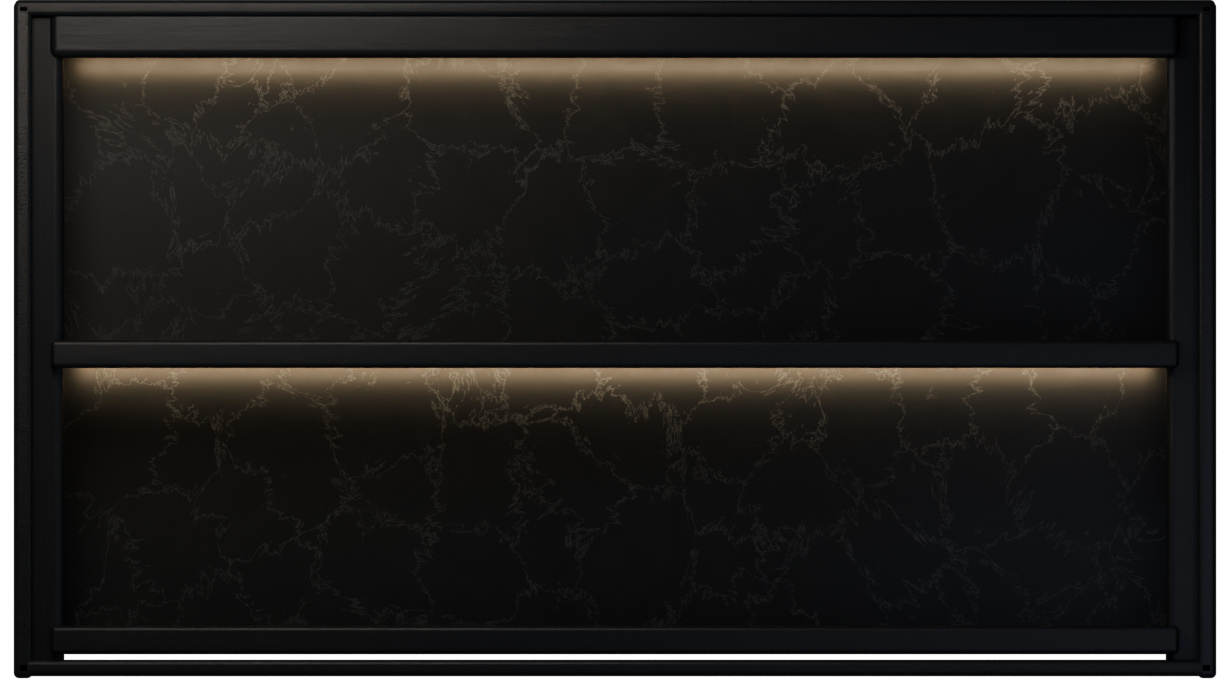
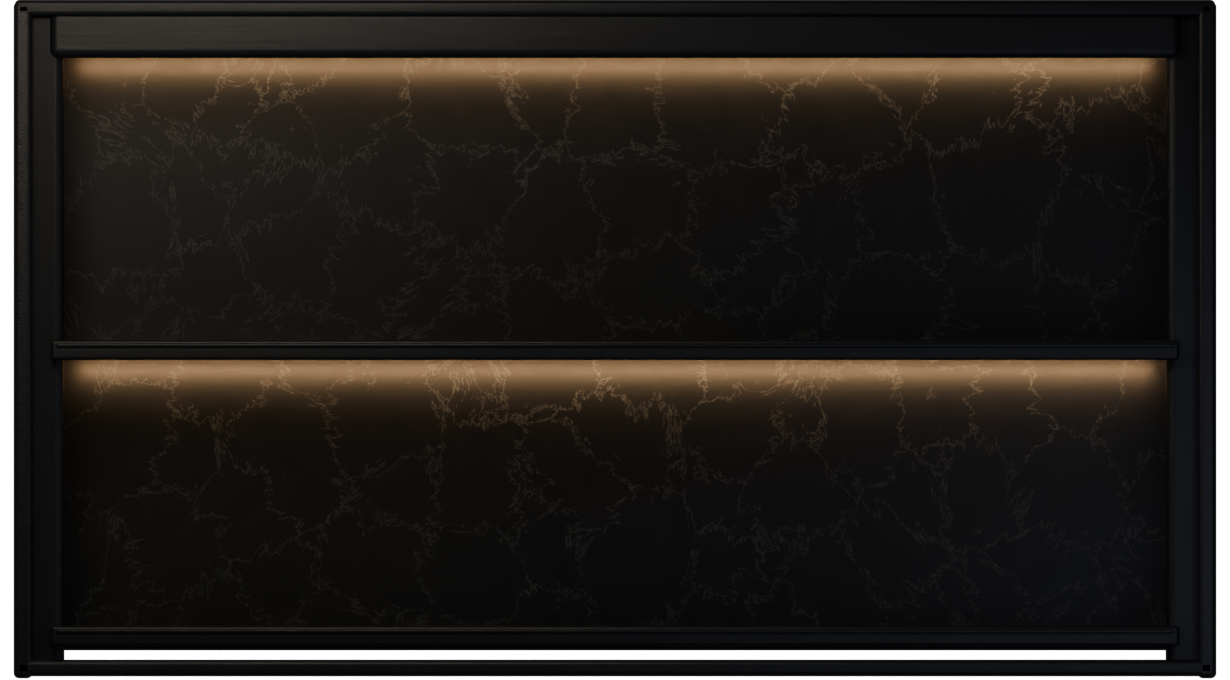
feat(mobile): polish MyShelf and add whole-collection statistics (#579)

Changed region(s): [[0.0618, 0.9574, 0.9577, 0.9882], [0.0618, 0.525, 0.9577, 0.5559]]

diff --git a/apps/mobile/app/(app)/(tabs)/cellar.tsx b/apps/mobile/app/(app)/(tabs)/cellar.tsx
@@ -3,7 +3,7 @@ import { MaterialCommunityIcons } from "@expo/vector-icons";
 import { useFocusEffect, useRouter } from "expo-router";
 import * as SecureStore from "expo-secure-store";
 import { useCallback, useEffect, useMemo, useRef, useState } from "react";
-import { Alert, FlatList, KeyboardAvoidingView, Modal, Platform, Pressable, RefreshControl, ScrollView, StyleSheet, Switch, Text, TextInput, useWindowDimensions, View } from "react-native";
+import { AccessibilityInfo, findNodeHandle, Alert, FlatList, KeyboardAvoidingView, Modal, Platform, Pressable, RefreshControl, ScrollView, StyleSheet, Switch, Text, TextInput, useWindowDimensions, View } from "react-native";
 import { SafeAreaView } from "react-native-safe-area-context";
 import { MobileApiError } from "../../../src/api/client";
 import type { MemberCollectionBottle, MemberPreferences } from "../../../src/api/types";
@@ -20,7 +20,8 @@ import { nextShelfPageSize } from "../../../src/cellar/my-shelf-display";
 import { CellarBottleArtwork } from "../../../src/components/CellarBottleArtwork";
 import { CellarGlencairnSilhouette } from "../../../src/components/CellarGlencairnSilhouette";
 import { ShelfCabinet } from "../../../src/components/ShelfCabinet";
-import { shelfGridLayout, type ShelfStyle } from "../../../src/cellar/shelf-cabinet";
+import { CollectionStatisticsSheet } from "../../../src/components/CollectionStatisticsSheet";
+import { rankedShelfBottles, shelfGridLayout, type ShelfStyle } from "../../../src/cellar/shelf-cabinet";
 import { EmptyState, ErrorState, LoadingState, memberScreenStyles } from "../../../src/components/MemberScreen";
 import { ScoreSlider } from "../../../src/components/ScoreSlider";
 import { useMobileApi } from "../../../src/hooks/useMobileApi";
@@ -31,6 +32,7 @@ import {
   collectionDisplayKind,
   collectionInventoryLabel,
   collectionSummary,
+  collectionStatistics,
   DEFAULT_COLLECTION_FILTERS,
   DEFAULT_COLLECTION_SORT,
   filterAndSortCollection,
@@ -94,13 +96,21 @@ async function writeContributionReceipts(storageKey: string, receipts: BottleCon
 }
 
 export default function CellarScreen() {
+  const { userId } = useAuth();
+  // Keep API identity invalidation above the keyed local-state boundary.
   const api = useMobileApi();
+  return <AccountCellarScreen key={userId || 'signed-out'} api={api} />;
+}
+
+function AccountCellarScreen({ api }: { api: ReturnType<typeof useMobileApi> }) {
   const { userId } = useAuth();
   const router = useRouter();
   const receiptStorageKey = bottleContributionReceiptsStorageKey(userId);
-  const { width } = useWindowDimensions();
+  const { width, fontScale } = useWindowDimensions();
   const [preferences, setPreferences] = useState<MemberPreferences | null>(null);
   const activeUser = useRef(userId);
+  const mounted = useRef(true);
+  useEffect(() => { mounted.current = true; return () => { mounted.current = false; }; }, []);
   const styleRevision = useRef(0);
   activeUser.current = userId;
   const [styleSaving, setStyleSaving] = useState(false);
@@ -116,6 +126,14 @@ export default function CellarScreen() {
   const [mutating, setMutating] = useState(false);
   const [savingWatchKey, setSavingWatchKey] = useState("");
   const [dnaExpanded, setDnaExpanded] = useState(false);
+  const [statisticsOpen, setStatisticsOpen] = useState(false);
+  const statisticsTrigger = useRef<View>(null);
+  const restoreStatisticsFocus = () => {
+    if (Platform.OS === 'web') { (statisticsTrigger.current as unknown as {focus?: () => void})?.focus?.(); return; }
+    const node = findNodeHandle(statisticsTrigger.current);
+    if (node != null) AccessibilityInfo.setAccessibilityFocus(node);
+  };
+  const closeStatistics = () => { setStatisticsOpen(false); };
   const [visibleCount, setVisibleCount] = useState(12);
   const reportedPendingBottleIds = useRef(new Set<string>());
 
@@ -195,8 +213,9 @@ export default function CellarScreen() {
     setError("");
     try {
       const receiptRead = await readContributionReceipts(receiptStorageKey);
+      if (!mounted.current) return;
       const nextPreferences = await api.getMemberPreferences({ fresh });
-      if (activeUser.current !== userId || readStyleRevision !== styleRevision.current) return;
+      if (!mounted.current || activeUser.current !== userId || readStyleRevision !== styleRevision.current) return;
       acceptServerPreferences(nextPreferences);
       retryPendingContributions(nextPreferences, receiptRead.receipts);
     } catch (caught) {
@@ -214,6 +233,8 @@ export default function CellarScreen() {
   const collectionAccess = preferences?.collectionAccess;
   const canAddToCollection = collectionAccess?.canAdd === true;
   const summary = useMemo(() => collectionSummary(sourceBottles), [sourceBottles]);
+  const statistics = useMemo(() => collectionStatistics(sourceBottles), [sourceBottles]);
+  const ranked = useMemo(() => rankedShelfBottles(sourceBottles), [sourceBottles]);
   const bottles = useMemo(() => filterAndSortCollection(sourceBottles, query, sort, filters), [filters, query, sort, sourceBottles]);
   const visibleBottles = bottles.slice(0, visibleCount);
   const { columns: numColumns, tileWidth } = shelfGridLayout(width, viewMode);
@@ -401,7 +422,11 @@ export default function CellarScreen() {
         </View>
         {preferences ? <>
           <ShelfCabinet bottles={sourceBottles} shelfStyle={preferences.collectionPreferences.shelfStyle || "amber"} busy={styleSaving || mutating} onStyle={saveShelfStyle} onBottle={setSelected} />
-          <View accessibilityLabel="Collection Statistics" accessibilityRole="summary" style={styles.statistics}><Text style={styles.summaryDetail}>{summary.ownedWhiskeyCount} owned · {summary.tastedOnlyCount} tasted only{summary.averageRating == null ? "" : ` · ${(summary.averageRating / 10).toFixed(1)} average rating`}</Text></View>
+          <Pressable ref={statisticsTrigger} accessibilityLabel="Collection Statistics" accessibilityRole="button" accessibilityHint="View whole-collection statistics and readable Top Rated list" onPress={() => { if (!selected && !refineMode && !styleSaving) setStatisticsOpen(true); }} style={styles.statistics}>
+            <MaterialCommunityIcons accessible={false} name="chart-bar" size={22} color={colors.accent} />
+            <View style={{flex: 1}}><Text style={styles.statisticsTitle}>Collection Statistics</Text><Text style={styles.summaryDetail}>{statistics.ownedBottleCount} bottles · {statistics.ownedWhiskeyCount} owned entries{statistics.averageRating == null ? "" : ` · ${(statistics.averageRating / 10).toFixed(1)} avg`}</Text></View>
+            <MaterialCommunityIcons accessible={false} name="chevron-right" size={20} color={colors.muted} />
+          </Pressable>
         </> : null}
         {loading && !preferences ? <LoadingState label="Opening My Shelf…" /> : null}
         {error ? <ErrorState message={error} onRetry={() => void load(true)} /> : null}
@@ -424,9 +449,9 @@ export default function CellarScreen() {
             </View>
           </View>
           <View style={styles.controlRow}>
-            <TextInput accessibilityLabel="Search My Shelf" autoCapitalize="none" clearButtonMode="while-editing" onChangeText={setQuery} placeholder="Search" placeholderTextColor={colors.muted} style={styles.search} value={query} />
+            <View style={styles.searchField}><MaterialCommunityIcons accessible={false} name="magnify" size={18} color={colors.muted} /><TextInput accessibilityLabel="Search My Shelf" autoCapitalize="none" clearButtonMode="while-editing" onChangeText={setQuery} placeholder="Search" placeholderTextColor={colors.muted} style={styles.search} value={query} /></View>
 
-            <Pressable accessibilityLabel={moreFilterCount ? `More filters, ${moreFilterCount} active` : "More filters"} accessibilityRole="button" onPress={() => setRefineMode("filters")} style={[styles.moreFiltersButton, moreFilterCount > 0 && styles.moreFiltersButtonActive]}><Text style={styles.moreFiltersText}>Filters{moreFilterCount ? ` (${moreFilterCount})` : ""}</Text></Pressable>
+            <Pressable accessibilityLabel={moreFilterCount ? `More filters, ${moreFilterCount} active` : "More filters"} accessibilityRole="button" onPress={() => setRefineMode("filters")} style={[styles.moreFiltersButton, moreFilterCount > 0 && styles.moreFiltersButtonActive]}><MaterialCommunityIcons accessible={false} name="tune-variant" size={18} color={moreFilterCount ? colors.accent : colors.muted} />{width >= 350 || fontScale <= 1.15 ? <Text style={styles.moreFiltersText}>Filters{moreFilterCount ? ` (${moreFilterCount})` : ""}</Text> : null}</Pressable>
 
             <View accessibilityLabel="My Shelf view" accessibilityRole="radiogroup" style={styles.viewToggle}><ViewModeButton active={viewMode === "grid"} label="Grid" onPress={() => setViewMode("grid")} /><ViewModeButton active={viewMode === "list"} label="List" onPress={() => setViewMode("list")} /></View>
           </View>
@@ -463,6 +488,7 @@ export default function CellarScreen() {
       ListEmptyComponent={preferences && !loading ? <EmptyState title={sourceBottles.length ? "No whiskeys match" : "My Shelf is ready"} detail={sourceBottles.length ? "Clear the search or refine choices." : "Choose Add to save a bottle or a whiskey you tasted."} /> : null}
       style={memberScreenStyles.screen}
     />
+    <CollectionStatisticsSheet visible={statisticsOpen} statistics={statistics} ranked={ranked} onClose={closeStatistics} onDismiss={restoreStatisticsFocus} />
     <RefineSheet filters={filters} mode={refineMode} onChange={setFilters} onClose={() => setRefineMode(null)} onSort={setSort} sort={sort} />
     <BottleEditor bottle={selected} busy={mutating} onClose={() => setSelected(null)} onDelete={requestDelete} onInventoryAction={applyInventoryAction} onSave={saveBottle} />
   </SafeAreaView>;
@@ -702,10 +728,10 @@ function Stepper({ label, onChange, value }: { label: string; onChange: (value: 
 
 const styles = StyleSheet.create({
   pageTitle: { color: colors.text, fontSize: 32, fontWeight: "700", fontFamily: "Fraunces_700Bold" },
-  statistics: { gap: 2, paddingVertical: 5, paddingHorizontal: 10, borderWidth: StyleSheet.hairlineWidth, borderColor: "#29251f", borderRadius: 6, backgroundColor: "#12110e" },
+  statistics: { minHeight: 44, flexDirection: "row", alignItems: "center", gap: 8, paddingVertical: 4, paddingHorizontal: 10, borderWidth: StyleSheet.hairlineWidth, borderColor: "#29251f", borderRadius: 8, backgroundColor: "#12110e" },
   statisticsTitle: { color: colors.text, fontSize: 12, fontWeight: "500" },
-  collectionTabs: { flex: 1, flexDirection: "row", gap: 0, borderWidth: StyleSheet.hairlineWidth, borderColor: "#302b24", borderRadius: 6, overflow: "hidden" },
-  tileArt: { height: 76, width: 72, alignItems: "center", justifyContent: "center", transform: [{ scale: 0.65 }] },
+  collectionTabs: { flex: 1, flexDirection: "row", gap: 2, padding: 3, borderWidth: StyleSheet.hairlineWidth, borderColor: "#302b24", borderRadius: 9 },
+  tileArt: { height: 84, width: 80, alignItems: "center", justifyContent: "center", transform: [{ scale: 0.73 }] },
   header: { gap: 3, marginBottom: 0 },
   topRow: { flexDirection: "row", alignItems: "center", justifyContent: "space-between", gap: 14, paddingTop: 0 },
   topCopy: { flex: 1, gap: 4 },
@@ -739,19 +765,20 @@ const styles = StyleSheet.create({
   showMoreText: { color: colors.accent, fontSize: 13, fontWeight: "900" },
   huntNext: { gap: 8, borderColor: colors.border, borderWidth: StyleSheet.hairlineWidth, borderRadius: 14, backgroundColor: colors.surface, padding: 12 }, huntNextHeader: { flexDirection: "row", alignItems: "center", justifyContent: "space-between", gap: 10 }, huntNextTitle: { color: colors.text, fontSize: 17, fontWeight: "900" }, huntNextCount: { color: colors.muted, fontSize: 10, textTransform: "uppercase", letterSpacing: 0.7 }, huntNextRow: { gap: 9, borderTopColor: colors.border, borderTopWidth: StyleSheet.hairlineWidth, paddingTop: 10 }, huntNextCopy: { gap: 3 }, huntNextName: { color: colors.text, fontSize: 13, fontWeight: "800" }, huntNextReason: { color: colors.muted, fontSize: 11, lineHeight: 16 }, huntNextButton: { minHeight: 44, alignSelf: "flex-start", justifyContent: "center", borderColor: colors.accent, borderWidth: 1, borderRadius: 999, paddingHorizontal: 12 }, huntNextButtonText: { color: colors.accent, fontSize: 11, fontWeight: "900" },
   controlRow: { flexDirection: "row", gap: 8 },
-  search: { flex: 1, minWidth: 0, minHeight: 44, borderColor: "#343029", borderWidth: StyleSheet.hairlineWidth, borderRadius: 7, backgroundColor: "#151410", color: colors.text, paddingHorizontal: 10, fontSize: 12 },
+  searchField: { flex: 1, minWidth: 0, minHeight: 44, flexDirection: "row", alignItems: "center", paddingLeft: 8, borderColor: "#343029", borderWidth: StyleSheet.hairlineWidth, borderRadius: 7, backgroundColor: "#151410" },
+  search: { flex: 1, minWidth: 0, minHeight: 44, color: colors.text, paddingHorizontal: 6, fontSize: 12 },
   sortButton: { minHeight: 44, maxWidth: "44%", justifyContent: "center", borderColor: "#594839", borderWidth: 1, borderRadius: 11, backgroundColor: colors.surface, paddingHorizontal: 11 },
   sortText: { color: colors.text, fontSize: 11, fontWeight: "800" },
   filterBar: { minHeight: 44, flexDirection: "row", alignItems: "center", gap: 8 },
   quickFilterScroller: { flex: 1 },
   quickFilters: { alignItems: "center", gap: 7, paddingRight: 2 },
-  filterChip: { flex: 1, minWidth: 0, minHeight: 44, justifyContent: "center", alignItems: "center", backgroundColor: colors.surface, paddingHorizontal: 2, paddingVertical: 4 },
-  filterChipActive: { borderColor: colors.accent, backgroundColor: colors.accent, borderBottomWidth: 2 },
+  filterChip: { flex: 1, minWidth: 0, minHeight: 44, justifyContent: "center", alignItems: "center", backgroundColor: colors.surface, borderRadius: 6, paddingHorizontal: 2, paddingVertical: 4 },
+  filterChipActive: { backgroundColor: colors.accent },
   filterChipInline: { flexDirection: "row", gap: 3 },
   filterChipText: { color: colors.text, fontSize: 11, fontWeight: "500", textAlign: "center", flexShrink: 1 },
   tabCount: { color: colors.muted, fontSize: 10, textAlign: "center" },
   filterChipTextActive: { color: colors.background, fontWeight: "700" },
-  moreFiltersButton: { minHeight: 44, justifyContent: "center", borderColor: "#343029", borderWidth: StyleSheet.hairlineWidth, borderRadius: 7, backgroundColor: "#151410", paddingHorizontal: 8 },
+  moreFiltersButton: { minWidth: 44, minHeight: 44, flexDirection: "row", alignItems: "center", gap: 4, justifyContent: "center", borderColor: "#343029", borderWidth: StyleSheet.hairlineWidth, borderRadius: 7, backgroundColor: "#151410", paddingHorizontal: 6 },
   moreFiltersButtonActive: { borderColor: colors.accent, backgroundColor: "rgba(214,154,74,0.18)" },
   moreFiltersText: { color: colors.text, fontSize: 10, fontWeight: "800" },
   moreFiltersTextActive: { color: colors.accent },
@@ -766,9 +793,9 @@ const styles = StyleSheet.create({
   gridContent: { gap: 6 },
   gridRow: { gap: 8 },
   gap: { height: 8 },
-  tile: { flexGrow: 0, flexShrink: 0, minWidth: 0, alignItems: "center", gap: 2, paddingHorizontal: 4, paddingVertical: 5, borderColor: "#25221c", borderWidth: StyleSheet.hairlineWidth, borderRadius: 6, backgroundColor: "#13120f" },
+  tile: { flexGrow: 0, flexShrink: 0, minWidth: 0, alignItems: "center", gap: 1, paddingHorizontal: 4, paddingVertical: 2, borderColor: "#25221c", borderWidth: StyleSheet.hairlineWidth, borderRadius: 6, backgroundColor: "#13120f" },
   tileTitleZone: { alignSelf: "stretch", minHeight: 28, justifyContent: "center" },
-  tileName: { alignSelf: "stretch", color: colors.text, fontSize: 11, lineHeight: 13, fontFamily: Platform.select({ ios: "Georgia", android: "serif", default: "Georgia" }), fontWeight: "600", textAlign: "center" },
+  tileName: { alignSelf: "stretch", color: colors.text, fontSize: 10.5, lineHeight: 13, fontFamily: Platform.select({ ios: "Georgia", android: "serif", default: "Georgia" }), fontWeight: "400", textAlign: "center" },
   tileRating: { color: colors.accent, fontSize: 12, lineHeight: 15, fontWeight: "500" },
   inventory: { alignSelf: "stretch", textAlign: "center", color: colors.muted, fontSize: 10, lineHeight: 12, textTransform: "capitalize" },
   listRow: { minHeight: 92, flexDirection: "row", alignItems: "center", gap: 12, borderColor: colors.border, borderWidth: StyleSheet.hairlineWidth, borderRadius: 14, backgroundColor: colors.surface, paddingHorizontal: 12, paddingVertical: 10 },

diff --git a/apps/mobile/src/components/CollectionStatisticsSheet.tsx b/apps/mobile/src/components/CollectionStatisticsSheet.tsx
@@ -1,0 +1,48 @@
+import { useRef } from 'react';
+import { AccessibilityInfo, findNodeHandle, Modal, Platform, Pressable, ScrollView, StyleSheet, Text, View } from 'react-native';
+import { SafeAreaView } from 'react-native-safe-area-context';
+import type { MemberCollectionBottle } from '../api/types';
+import { collectionInventoryLabel, formatCollectionRating, type collectionStatistics } from '../interactions/member-interactions';
+import { colors } from '../theme';
+
+type Statistics = ReturnType<typeof collectionStatistics>;
+export function CollectionStatisticsSheet({ visible, statistics, ranked, onClose, onDismiss }: {
+  visible: boolean; statistics: Statistics; ranked: readonly MemberCollectionBottle[]; onClose: () => void; onDismiss: () => void;
+}) {
+  const heading = useRef<Text>(null);
+  const focusHeading = () => {
+    if (Platform.OS === 'web') { (heading.current as unknown as {focus?: () => void})?.focus?.(); return; }
+    const node = findNodeHandle(heading.current);
+    if (node != null) AccessibilityInfo.setAccessibilityFocus(node);
+  };
+  const s = statistics;
+  return <Modal visible={visible} animationType="none" presentationStyle="pageSheet" onRequestClose={onClose} onDismiss={onDismiss} onShow={focusHeading}>
+    <SafeAreaView style={styles.frame} accessibilityViewIsModal onAccessibilityEscape={onClose}>
+      <View style={styles.header}><Text ref={heading} accessible accessibilityRole="header" style={styles.title}>Collection Statistics</Text><Pressable accessibilityRole="button" accessibilityLabel="Close collection statistics" onPress={onClose} style={styles.close}><Text style={styles.closeText}>Close</Text></Pressable></View>
+      <ScrollView contentContainerStyle={styles.content}>
+        <Text style={styles.copy}>Your whole collection, regardless of search or filters.</Text>
+        <Stat label="Bottles on hand" value={String(s.ownedBottleCount)} detail={`${s.ownedWhiskeyCount} unique owned entries`} />
+        <Stat label="Sealed bottles" value={String(s.sealedBottleCount)} />
+        <Stat label="Open bottles" value={String(s.openBottleCount)} />
+        <Stat label="Tasted only" value={String(s.tastedOnlyCount)} detail="Saved entries with no bottles on hand" />
+        <Stat label="Your average rating" value={s.averageRating == null ? 'Not rated yet' : `${(s.averageRating / 10).toFixed(1)} / 10`} detail={`${s.ratedCount} rated entries across owned and tasted only. Each entry counts once, including a rating of zero; unrated entries do not count.`} />
+        <Stat label="Most-represented distillery" value="Unavailable" detail="No verified distillery data is attached to your collection. Brands and bottlers are not counted as distilleries." />
+        <Stat label="Highest personally rated owned" value={s.highestRatedOwned ? `${formatCollectionRating(s.highestRatedOwned)} / 10` : 'Not rated yet'} detail={s.highestRatedOwned ? `${s.highestRatedOwned.bottleName}. Ties retain collection order; up to 20 entries are listed in Top Rated below.` : 'Rate a bottle you own to see it here.'} />
+        <Stat label="Collection worth" value="Coming later" />
+        <Text accessibilityRole="header" style={styles.sectionTitle}>Top Rated</Text>
+        <Text style={styles.copy}>Your top 20 personally rated owned entries. Full bottle names and inventory, in shelf order.</Text>
+        {ranked.length ? ranked.map((bottle, index) => <View key={bottle.bottleId || `${bottle.canonicalKey}:${bottle.bottleName}`} accessible style={styles.row}>
+          <Text style={styles.label}>{index + 1}. {bottle.bottleName}</Text>
+          <Text style={styles.value}>{formatCollectionRating(bottle)} / 10</Text>
+          <Text style={styles.copy}>{collectionInventoryLabel(bottle)}</Text>
+        </View>) : <Text style={styles.copy}>No personally rated owned bottles yet.</Text>}
+      </ScrollView>
+    </SafeAreaView>
+  </Modal>;
+}
+function Stat({label,value,detail}:{label:string;value:string;detail?:string}) {
+  return <View accessible style={styles.row}><Text style={styles.label}>{label}</Text><Text style={styles.value}>{value}</Text>{detail ? <Text style={styles.copy}>{detail}</Text> : null}</View>;
+}
+const styles=StyleSheet.create({
+  frame:{flex:1,backgroundColor:colors.background},header:{paddingHorizontal:20,paddingVertical:8,flexDirection:'row',alignItems:'center',gap:12},title:{flex:1,color:colors.text,fontSize:21,fontWeight:'600'},close:{minHeight:44,minWidth:44,justifyContent:'center'},closeText:{color:colors.accent,fontSize:16},content:{paddingHorizontal:20,paddingBottom:32,gap:16},row:{gap:5,paddingVertical:8,borderBottomWidth:StyleSheet.hairlineWidth,borderBottomColor:colors.border},label:{color:colors.text,fontSize:16,fontWeight:'500'},value:{color:colors.accent,fontSize:22},copy:{color:colors.muted,fontSize:14,lineHeight:21},sectionTitle:{color:colors.text,fontSize:22,fontWeight:'600',paddingTop:12},
+});

diff --git a/apps/mobile/src/cellar/collection-statistics.test.ts b/apps/mobile/src/cellar/collection-statistics.test.ts
@@ -1,0 +1,34 @@
+import assert from 'node:assert/strict';
+import test from 'node:test';
+import * as interactions from '../interactions/member-interactions';
+import type { MemberCollectionBottle } from '../api/types';
+const bottle=(id:string, patch:Partial<MemberCollectionBottle>={}):MemberCollectionBottle=>({bottleId:id,bottleName:id,canonicalKey:id,rating:0,isRated:false,sealedQuantity:0,openedQuantity:0,finishedCount:0,tastedOnly:true,addedAt:'2026-01-01',updatedAt:'2026-01-01',...patch});
+const stats=(items:MemberCollectionBottle[])=>{
+ assert.equal(typeof (interactions as any).collectionStatistics,'function','whole-collection statistics derivation must exist');
+ return (interactions as any).collectionStatistics(items);
+};
+test('whole collection statistics distinguish physical bottles, entries and personal rating population',()=>{
+ const s=stats([bottle('a',{sealedQuantity:2,openedQuantity:1,isRated:true,rating:0}),bottle('b',{sealedQuantity:1,isRated:true,rating:100}),bottle('c',{isRated:true,rating:50}),bottle('unrated',{rating:100}),bottle('invalid',{isRated:true,rating:NaN})]);
+ assert.equal(s.ownedBottleCount,4);assert.equal(s.ownedWhiskeyCount,2);assert.equal(s.sealedBottleCount,3);assert.equal(s.openBottleCount,1);assert.equal(s.tastedOnlyCount,3);
+ assert.equal(s.ratedCount,3);assert.equal(s.averageRating,50);assert.equal(s.highestRatedOwned.bottleId,'b');
+ assert.equal(s.distillery.status,'unavailable');assert.equal(s.distillery.knownBottleCount,0);assert.deepEqual(s.distillery.leaders,[]);
+});
+test('brand, bottler and unverified tied distillery strings cannot become facility statistics',()=>{
+ const items=[bottle('a',{sealedQuantity:2}),bottle('b',{openedQuantity:2})].map(b=>({...b,producer:'Brand',distillery:'Unverified tied name',brand:'Bottler'}));
+ const s=stats(items);assert.equal(s.distillery.status,'unavailable');assert.equal(s.distillery.knownBottleCount,0);assert.deepEqual(s.distillery.leaders,[]);
+});
+test('empty and unrated collections have no fake average or highest bottle',()=>{
+ for(const items of [[],[bottle('a')]]){const s=stats(items);assert.equal(s.averageRating,null);assert.equal(s.ratedCount,0);assert.equal(s.highestRatedOwned,null);}
+});
+test('missing and invalid ratings excluded, valid zero retained, stable owned ties',()=>{
+ const s=stats([bottle('first',{sealedQuantity:1,rating:0,isRated:true}),bottle('second',{openedQuantity:3,rating:0,isRated:true}),bottle('missing',{isRated:true,rating:undefined as any}),bottle('negative',{isRated:true,rating:-1}),bottle('over',{isRated:true,rating:101})]);
+ assert.equal(s.ratedCount,2);assert.equal(s.averageRating,0);assert.equal(s.highestRatedOwned.bottleId,'first');
+});
+test('stats do not cache account data, respond to edit/removal and ignore view filters',()=>{
+ const a=[bottle('a',{sealedQuantity:3,isRated:true,rating:90}),bottle('b',{openedQuantity:1,isRated:true,rating:10})];
+ const snapshot=structuredClone(a);const before=stats(a);
+ interactions.filterAndSortCollection(a,'a','rating',{...interactions.DEFAULT_COLLECTION_FILTERS,status:'owned'});
+ assert.deepEqual(stats(a),before);assert.deepEqual(a,snapshot);
+ assert.equal(stats([{...a[0],sealedQuantity:1},a[1]]).ownedBottleCount,2);
+ assert.equal(stats(a.slice(1)).averageRating,10);assert.equal(stats([]).ratedCount,0);assert.equal(stats([bottle('other')]).ownedBottleCount,0);
+});

diff --git a/apps/mobile/src/components/ShelfCabinet.tsx b/apps/mobile/src/components/ShelfCabinet.tsx
@@ -27,7 +27,7 @@ export function ShelfCabinet({ bottles, shelfStyle, busy, onStyle, onBottle }: {
   const plate = placement[assetKey];
   const cabinetHeight = interiorWidth * plate.height / plate.width;
   // Reserve the measured inline heading at larger text sizes; never stretch the cabinet grain.
-  const photoScale = Math.max(0, Math.min(1, ((interiorWidth * .89 / slots) - 2) / 80, (cabinetHeight * plate.baselineY[0] - headingHeight - 8) / 116));
+  const photoScale = Math.max(0, Math.min(1, ((interiorWidth * .89 / slots) - 2) / (slots <= 6 ? 70 : 80), (cabinetHeight * plate.baselineY[0] - headingHeight - 8) / 116));
   return <View>
     <View testID="shelf-cabinet" onLayout={e => {
       const width = e.nativeEvent.layout.width;
@@ -35,9 +35,9 @@ export function ShelfCabinet({ bottles, shelfStyle, busy, onStyle, onBottle }: {
     }} style={{ height: cabinetHeight, position: 'relative', overflow: 'hidden' }}>
       {/* Native Image injects asset dimensions; bind the same frame used by bottle placement. */}
       <Image accessibilityElementsHidden importantForAccessibility="no-hide-descendants" source={cabinetAssets[shelfStyle][assetKey]} resizeMode="contain" style={{ position: 'absolute', left: 0, top: 0, width: interiorWidth, height: cabinetHeight }} />
-      <View onLayout={e => setHeadingHeight(e.nativeEvent.layout.height)} style={styles.heading}>
+      <View onLayout={e => { const height = e.nativeEvent.layout.height; if (Number.isFinite(height) && height > 0) setHeadingHeight(height); }} style={styles.heading}>
         <Text style={styles.caption}>TOP RATED · {ranked.length}/20</Text>
-        <Pressable accessibilityRole="button" accessibilityLabel="Edit Shelf" onPress={() => setPicker(true)} style={styles.edit}><Text style={styles.editText}>Edit Shelf</Text></Pressable>
+        <Pressable accessibilityRole="button" accessibilityLabel="Shelf Style" onPress={() => setPicker(true)} style={styles.edit}><Text style={styles.editText}>Shelf Style</Text></Pressable>
       </View>
       {(rows.length ? rows : [[]]).map((row, i) => <View testID="cabinet-row" key={i} style={{ position: 'absolute', left: '5.5%', right: '5.5%', top: cabinetHeight * plate.baselineY[i] - 116 * photoScale, height: 116 * photoScale, flexDirection: 'row', justifyContent: 'center' }}>
         {row.map(bottle => <Pressable key={bottle.bottleId || `${bottle.canonicalKey}:${bottle.bottleName}`} testID="cabinet-bottle" accessibilityRole="button" accessibilityLabel={`${bottle.bottleName}. Personally rated ${(bottle.rating / 10).toFixed(1)}. Open details.`} onPress={() => onBottle(bottle)} style={{ width: interiorWidth * .89 / slots, height: 116 * photoScale, alignItems: 'center' }}>

diff --git a/apps/mobile/src/cellar/shelf-page-contract.test.ts b/apps/mobile/src/cellar/shelf-page-contract.test.ts
@@ -2,6 +2,9 @@ import assert from 'node:assert/strict';
 import './shelf-asset-layout.test';
 import './shelf-fidelity.test';
 import './photo-presentation.test';
+import './collection-statistics.test';
+import './collection-statistics-ui.test';
+import './shelf-stats-polish.test';
 import test from 'node:test';
 import { readFileSync } from 'node:fs';
 const page=readFileSync(new URL('../../app/(app)/(tabs)/cellar.tsx',import.meta.url),'utf8');
@@ -17,7 +20,7 @@ test('an older refresh cannot undo an acknowledged shelf finish', async () => {
  const stale = structuredClone(preferences);
  const api = {getMemberPreferences: () => {startedRead(); return read;}, updateMemberPreferences: async () => ({collectionPreferences:{shelfStyle:'black'}})};
  const noop = () => {};
- const deps = {api, activeUser:{current:'fixture'}, userId:'fixture', styleRevision:{current:0}, styleSaving:false, mutating:false, receiptStorageKey:'fixture', readContributionReceipts:async()=>({receipts:new Map()}), setLoading:noop, setError:noop, setStyleSaving:noop, retryPendingContributions:noop, MobileApiError:Error, Alert:{alert:noop}, acceptServerPreferences:(next:typeof preferences)=>{preferences=next;}, setPreferences:(update:(p:typeof preferences)=>typeof preferences)=>{preferences=update(preferences);}};
+ const deps = {api, mounted:{current:true}, activeUser:{current:'fixture'}, userId:'fixture', styleRevision:{current:0}, styleSaving:false, mutating:false, receiptStorageKey:'fixture', readContributionReceipts:async()=>({receipts:new Map()}), setLoading:noop, setError:noop, setStyleSaving:noop, retryPendingContributions:noop, MobileApiError:Error, Alert:{alert:noop}, acceptServerPreferences:(next:typeof preferences)=>{preferences=next;}, setPreferences:(update:(p:typeof preferences)=>typeof preferences)=>{preferences=update(preferences);}};
  const callbacks = new Function(...Object.keys(deps), `return {load:async(fresh=false)=>{${loadBody}},save:async(shelfStyle)=>{${saveBody}}}`)(...Object.values(deps));
  const loading = callbacks.load(true); await started;
  assert.equal(await callbacks.save('black'),true);

diff --git a/apps/mobile/src/cellar/collection-statistics-ui.test.ts b/apps/mobile/src/cellar/collection-statistics-ui.test.ts
@@ -1,0 +1,22 @@
+import assert from 'node:assert/strict';
+import {readFileSync,existsSync} from 'node:fs';
+import test from 'node:test';
+const page=readFileSync(new URL('../../app/(app)/(tabs)/cellar.tsx',import.meta.url),'utf8');
+test('whole-account sheet is wired independently of filters and reset by account key',()=>{
+ assert.match(page,/collectionStatistics\(sourceBottles\)/);
+ assert.match(page,/<CollectionStatisticsSheet/);
+ assert.match(page,/key=\{userId/);
+ assert.match(page,/accessibilityLabel="Collection Statistics" accessibilityRole="button"/);
+});
+test('keyed account UI preserves parent API identity guard and cancels stale load continuations',()=>{
+ const parent=page.slice(page.indexOf('export default function CellarScreen'),page.indexOf('function AccountCellarScreen'));
+ assert.match(parent,/const api = useMobileApi\(\)/);
+ assert.match(parent,/api=\{api\}/);
+ assert.match(page,/mounted\.current = false/);
+ assert.match(page,/if \(!mounted\.current \|\| activeUser\.current !== userId/);
+});
+test('statistics native sheet uses existing modal with scroll close back and focus',()=>{
+ const file=new URL('../components/CollectionStatisticsSheet.tsx',import.meta.url);
+ assert.ok(existsSync(file),'native statistics sheet exists');const s=readFileSync(file,'utf8');
+ for(const token of ['onRequestClose','ScrollView','accessibilityViewIsModal','setAccessibilityFocus','onShow','Collection worth','Coming later','No verified distillery data','rated entries','Top Rated'])assert.ok(s.includes(token),token);
+});

diff --git a/apps/mobile/src/interactions/member-interactions.ts b/apps/mobile/src/interactions/member-interactions.ts
@@ -48,6 +48,24 @@ export function collectionSummary(bottles: MemberCollectionBottle[]) {
   };
 }
 
+export function collectionStatistics(bottles: MemberCollectionBottle[]) {
+  // One personal rating per saved entry, independent of physical inventory.
+  const rated = bottles.filter(bottle => bottle.isRated === true && Number.isFinite(bottle.rating) && bottle.rating >= 0 && bottle.rating <= 100);
+  const ownedRated = rated.filter(bottle => collectionDisplayKind(bottle) === "owned");
+  const highestRatedOwned = ownedRated.reduce<MemberCollectionBottle | null>((best, bottle) => !best || bottle.rating > best.rating ? bottle : best, null);
+  return {
+    ...collectionSummary(bottles),
+    sealedBottleCount: bottles.reduce((sum, bottle) => sum + quantity(bottle.sealedQuantity), 0),
+    openBottleCount: bottles.reduce((sum, bottle) => sum + quantity(bottle.openedQuantity), 0),
+    ratedCount: rated.length,
+    averageRating: rated.length ? rated.reduce((sum, bottle) => sum + bottle.rating, 0) / rated.length : null,
+    highestRatedOwned,
+    // Saved entries contain no distillery. Catalog producer is a conflated
+    // producer/distillery fallback, not evidence of a distillation facility.
+    distillery: { status: "unavailable" as const, knownBottleCount: 0, leaders: [] as string[] },
+  };
+}
+
 export function formatCollectionRating(bottle: Pick<MemberCollectionBottle, "rating" | "isRated">) {
   return bottle.isRated ? (bottle.rating / 10).toFixed(1) : "Unrated";
 }

diff --git a/apps/mobile/src/cellar/shelf-stats-polish.test.ts b/apps/mobile/src/cellar/shelf-stats-polish.test.ts
@@ -1,0 +1,13 @@
+import assert from 'node:assert/strict';import {readFileSync} from 'node:fs';import test from 'node:test';
+const page=readFileSync(new URL('../../app/(app)/(tabs)/cellar.tsx',import.meta.url),'utf8');
+const cabinet=readFileSync(new URL('../components/ShelfCabinet.tsx',import.meta.url),'utf8');
+test('polish uses inset tabs, larger image zone, lighter titles and search/filter icons',()=>{
+ assert.match(page,/name="magnify"/);assert.match(page,/name="tune-variant"/);
+ assert.match(page,/tileArt: \{ height: 84/);assert.match(page,/fontWeight: "400", textAlign: "center"/);
+ assert.match(page,/padding: 3, borderWidth: StyleSheet.hairlineWidth/);
+});
+test('cabinet offers Shelf Style and guards heading measurements',()=>{
+ assert.match(cabinet,/Shelf Style/);assert.doesNotMatch(cabinet,/Edit Shelf/);
+ assert.match(cabinet,/Number.isFinite\(height\) && height > 0/);
+ assert.match(cabinet,/slots <= 6 \? 70 : 80/);
+});
